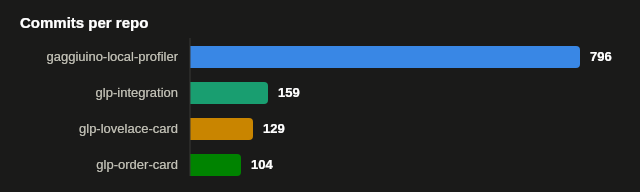
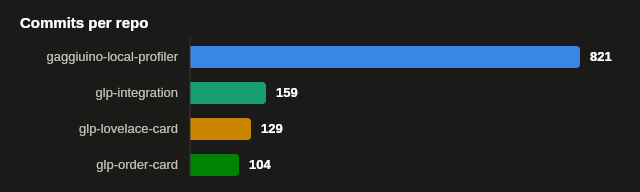
Reconcile machine host/switch entity after backup restore (#661)
restoreMachines() wrote a backed-up machine row straight into the
registry, bypassing options-adoption.js's tracked-input contract. Since
a restore never touches options.json, the seen-value baseline stayed
unchanged and adoptOptionChanges() never noticed the registry had
drifted back to a stale host/switch entity from backup time.

Found live on GLP DEV: machine_host was updated in the add-on options,
then a restore from before that change silently reverted it, and it
stuck across restarts.

Closes #661

diff --git a/gaggiuino-local-profiler/test/options-adoption.test.js b/gaggiuino-local-profiler/test/options-adoption.test.js
@@ -195,4 +195,53 @@ describe('options.json adoption into the machine registry', () => {
         boot();
         expect(machine().host).toBe('edited-in-app.local');
     });
+
+    // #661: registry.restoreMachines() writes a backed-up machine row
+    // straight into the machines table, bypassing adoptOptionChanges()
+    // entirely. Without reconciliation, a restore from a backup taken at a
+    // different host/switch_entity silently reintroduces the stale value,
+    // and it survives every future restart because options.json itself
+    // never changed -- adoptOptionChanges()'s diff against its "seen"
+    // baseline sees no difference.
+    it('re-adopts the current add-on options after a restore reintroduces a stale host/switch_entity', () => {
+        writeOptions({ machine_host: 'gaggia.intern', switch_entity: 'switch.current' });
+        boot();
+        expect(machine().host).toBe('gaggia.intern');
+        expect(machine().switchEntity).toBe('switch.current');
+
+        // Restore a backup taken back when the machine lived at a different
+        // host/switch entity -- options.json is untouched throughout.
+        require('../lib/machines/registry').restoreMachines([{
+            id: 1, name: 'Gaggiuino', type: 'gaggiuino',
+            host: 'old-host.local', switchEntity: 'switch.stale',
+            isDefault: true, enabled: true, createdAt: Date.now(),
+        }]);
+
+        expect(machine().host).toBe('gaggia.intern');
+        expect(machine().switchEntity).toBe('switch.current');
+
+        // And the reconciliation must have updated the "seen" baseline too,
+        // so a subsequent boot() with the same unchanged options doesn't
+        // find a stale-vs-current diff and re-log/re-adopt for no reason.
+        boot();
+        expect(machine().host).toBe('gaggia.intern');
+        expect(machine().switchEntity).toBe('switch.current');
+    });
+
+    it('restore reconciliation leaves a restored host alone when the add-on option is empty', () => {
+        writeOptions({ machine_host: 'gaggia.intern' });
+        boot();
+
+        // Add-on option emptied at some point -- required fields are never
+        // cleared, so there's nothing for reconciliation to fall back to;
+        // the restored value (however stale) stands.
+        writeOptions({ machine_host: '' });
+        require('../lib/machines/registry').restoreMachines([{
+            id: 1, name: 'Gaggiuino', type: 'gaggiuino',
+            host: 'old-host.local', switchEntity: null,
+            isDefault: true, enabled: true, createdAt: Date.now(),
+        }]);
+
+        expect(machine().host).toBe('old-host.local');
+    });
 });

diff --git a/gaggiuino-local-profiler/lib/machines/options-adoption.js b/gaggiuino-local-profiler/lib/machines/options-adoption.js
@@ -129,4 +129,39 @@ function adoptOptionChanges() {
     }
 }
 
-module.exports = { adoptOptionChanges };
+// Called right after registry.restoreMachines() restores the default
+// machine row (#661). A restored backup's host/switchEntity reflects
+// whatever this instance's add-on options said at *backup* time, and
+// restoreMachines() writes it straight into the machines table, bypassing
+// the tracked-input contract above entirely. Left alone, that stale value
+// survives every future startup: adoptOptionChanges() only re-adopts when
+// options.json's *current* value differs from the last-seen one, and a
+// restore doesn't touch options.json, so the seen baseline still matches —
+// no diff, no re-adoption, and the registry is silently stuck on data from
+// a point in time (or, restoring across installs, a machine) that may no
+// longer be this instance's own.
+//
+// Unlike adoptOptionChanges()'s diff-based adoption, this instance's add-on
+// options win here unconditionally: they describe this instance's actual
+// machine right now, and a restore is itself the kind of registry-replacing
+// event that a live option edit would also win against.
+function reconcileAfterRestore() {
+    const opts    = loadOptions();
+    const machine = registry.getDefaultMachine();
+    if (!machine) return;
+
+    for (const { optionKey, machineField, required } of TRACKED) {
+        const current = normalise(opts[optionKey]);
+        if (current === UNSET) continue;
+        if (required && current === null) { writeSeen(optionKey, current); continue; }
+
+        if (machine[machineField] !== current) {
+            registry.updateMachine(machine.id, { [machineField]: current });
+            log(`Machines: restore left ${optionKey} out of sync with add-on options, re-adopted into `
+                + `machine #${machine.id} ("${machine.name}"): ${machineField} = ${current === null ? '(cleared)' : current}`);
+        }
+        writeSeen(optionKey, current);
+    }
+}
+
+module.exports = { adoptOptionChanges, reconcileAfterRestore };

diff --git a/gaggiuino-local-profiler/lib/machines/registry.js b/gaggiuino-local-profiler/lib/machines/registry.js
@@ -176,6 +176,19 @@ function restoreMachines(machines) {
 
     for (const host of oldHosts) evictLiveSession(host);
 
+    // #661: a restored machine row can carry a stale host/switchEntity from
+    // whatever this instance's add-on options said at backup time --
+    // reconcile against the *current* options.json the same way a live
+    // option edit would, so the registry doesn't silently drift from what's
+    // actually configured. Lazy require: options-adoption.js requires this
+    // module at its own top level, so a top-level require here would form a
+    // cycle (see evictLiveSession() above for the same precedent).
+    try {
+        require('./options-adoption').reconcileAfterRestore();
+    } catch (e) {
+        log(`Machines: post-restore options reconciliation failed: ${e.message}`, true);
+    }
+
     log(`Machines: restored ${valid.length}/${machines.length} machine(s)`);
     return valid.length;
 }

diff --git a/DEVELOPMENT.md b/DEVELOPMENT.md
@@ -1,36 +1,36 @@
 # Development Stats
 
-Generated 2026-08-04 by `scripts/dev-stats.mjs`. Re-run it any time to refresh these numbers — they are computed live from git history, not hand-maintained.
+Generated 2026-08-06 by `scripts/dev-stats.mjs`. Re-run it any time to refresh these numbers — they are computed live from git history, not hand-maintained.
 
 ## Timeline
 
-The GLP ecosystem (this app + 3 companion repos) has been in development since **2026-05-20** — **77 days** as of the last commit (2026-08-04).
+The GLP ecosystem (this app + 3 companion repos) has been in development since **2026-05-20** — **79 days** as of the last commit (2026-08-06).
 
 | Repo | First commit | Last commit | Commits | Claude co-authored |
 |---|---|---|---|---|
-| gaggiuino-local-profiler | 2026-05-20 | 2026-08-04 | 796 | 573 (72%) |
+| gaggiuino-local-profiler | 2026-05-20 | 2026-08-06 | 821 | 596 (73%) |
 | glp-integration | 2026-05-22 | 2026-08-04 | 159 | 99 (62%) |
 | glp-lovelace-card | 2026-05-24 | 2026-08-04 | 129 | 95 (74%) |
 | glp-order-card | 2026-05-25 | 2026-08-04 | 104 | 73 (70%) |
-| **Combined** | **2026-05-20** | **2026-08-04** | **1188** | **840 (71%)** |
+| **Combined** | **2026-05-20** | **2026-08-06** | **1213** | **863 (71%)** |
 
 ![Commits per repo](docs/dev-stats/commits-per-repo.png)
 
-Combined line changes (insertions + deletions across all commits): **317.225**, of which **235.597** landed in Claude-co-authored commits.
+Combined line changes (insertions + deletions across all commits): **323.043**, of which **241.415** landed in Claude-co-authored commits.
 
 Commits without a Claude co-author line are presumed human-only (manual fixes, merges, config tweaks) — not independently verified.
 
 ## Hours of development (lower-bound estimate)
 
-Clustering each repo's commit timestamps into working sessions — commits within 2h of each other join the same session, and each session gets a 30-minute lead-in credited ahead of its first commit — gives a combined **314.9 hours** across all four repos.
+Clustering each repo's commit timestamps into working sessions — commits within 2h of each other join the same session, and each session gets a 30-minute lead-in credited ahead of its first commit — gives a combined **321.1 hours** across all four repos.
 
 | Repo | Hours (session-clustered) |
 |---|---|
-| gaggiuino-local-profiler | 178.1 |
+| gaggiuino-local-profiler | 184.2 |
 | glp-integration | 51.1 |
 | glp-lovelace-card | 45.8 |
 | glp-order-card | 39.9 |
-| **Combined** | **314.9** |
+| **Combined** | **321.1** |
 
 This is a **lower-bound estimate derived from git commit timestamps only**, not measured time — it undercounts real work because a long AI-agentic session (orchestration, agent dispatch, review between infrequent commits) can run for hours between commits.
 
@@ -38,12 +38,12 @@ This is a **lower-bound estimate derived from git commit timestamps only**, not 
 
 | Model | Commits |
 |---|---|
-| Claude Sonnet 5 | 387 |
+| Claude Sonnet 5 | 397 |
 | Claude Sonnet 4.6 | 348 |
 | Claude Opus 4.8 | 47 |
 | Claude Fable 5 | 40 |
+| Claude Opus 5 | 17 |
 | Claude | 11 |
-| Claude Opus 5 | 4 |
 | Claude Haiku 4.5 | 3 |
 
 ![Claude model breakdown by commits](docs/dev-stats/model-breakdown.png)

diff --git a/gaggiuino-local-profiler/CHANGELOG.md b/gaggiuino-local-profiler/CHANGELOG.md
@@ -1,5 +1,8 @@
 ## Unreleased
 
+### Fixed
+- **Restoring a backup could silently reintroduce a stale `machine_host`/`switch_entity`, permanently out of sync with the add-on's own configuration.** Found while testing on GLP DEV: `machine_host` was set to a new value in the add-on options, then a backup restore (from before that change) put the old host straight back — and it stayed there across every subsequent restart. `registry.restoreMachines()` writes a backed-up machine row directly into the registry, bypassing `lib/machines/options-adoption.js` entirely; since a restore never touches `options.json` itself, the tracked-input baseline used to detect an add-on option change saw no diff on the next start and never re-adopted the still-current option value. A restore now reconciles the restored default machine's `host`/`switchEntity` against the current add-on options immediately afterward, the same way a live option edit would — the add-on's own config always describes this instance's actual machine, regardless of what a restored backup (possibly older, possibly from a different install) says. Closes #661
+
 ### Added
 - **Backup filenames now include the time, not just the date** (e.g. `glp-backup-2026-08-06_08-32-05.zip`). Requested by Max: two backups taken the same day previously collided on the same `glp-backup-YYYY-MM-DD` filename, forcing the browser to append "(1)"/"(2)" or silently overwrite the earlier one. Closes #660
 
